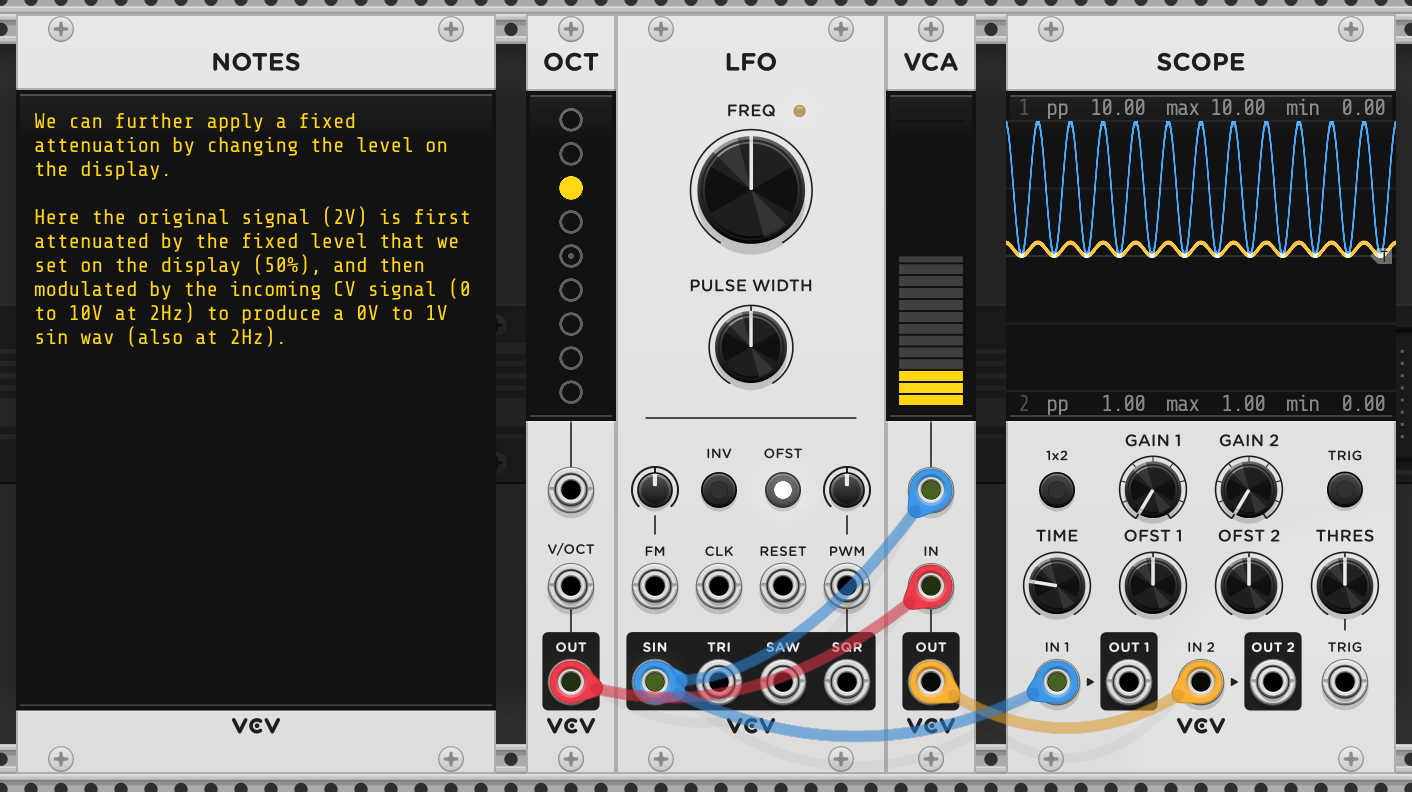
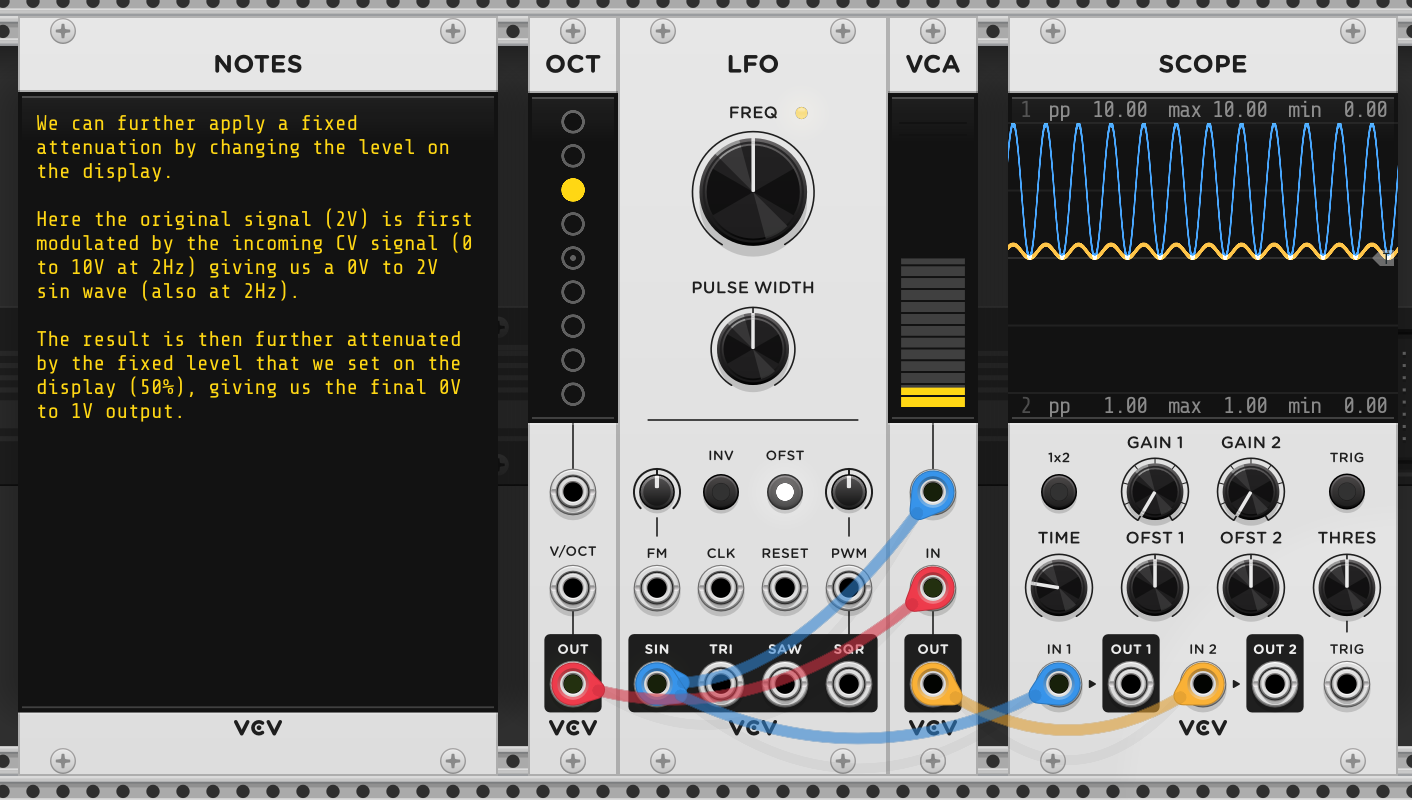
flip

diff --git a/modules/README.md b/modules/README.md
@@ -410,10 +410,16 @@ With a control voltage of 0V being 0% level, and 10V being 100% level.
 > functional reasons for using CV Mix for control voltages and VCA (or VCA Mix)
 > for audio voltages.
 
-We still get the manual control if we wish. So there is one manually controlled
-level (the setting on the display), and one voltage controlled level (the
-control voltage at _IN_), and they're multiplied together to give the
-amplification level for the output.
+Since we can use a voltage to control the amplification level of the output,
+this module is called a **voltage controlled amplifier** (or as friends call it,
+a VCO).
+
+As a convenience, we still get the manual control if we wish in addition to the
+voltage controlled level. The input signal (the voltage at the unnamed input
+jack) is multiplied by the voltage controlled level (the control voltage at
+_IN_), and then multiplied by the manually controlled level (the setting on the
+display), and the result is what gets set as the voltage of the output jack
+_OUT_.
 
 ![VCA output level can be set both manually and via the level control voltage at the same time](i/vca-4.png)
 
